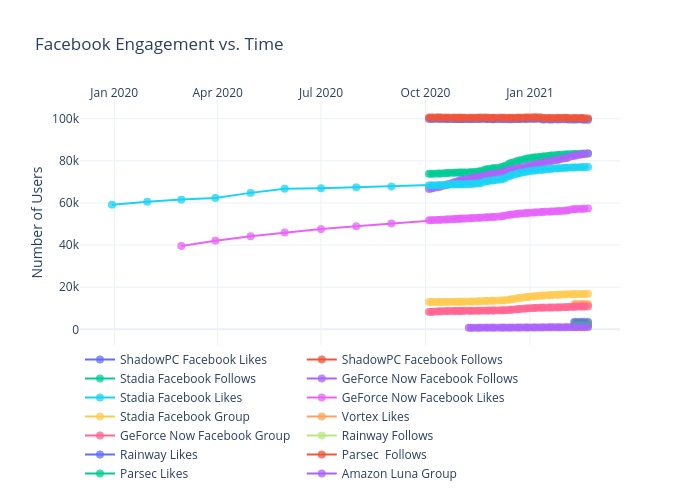
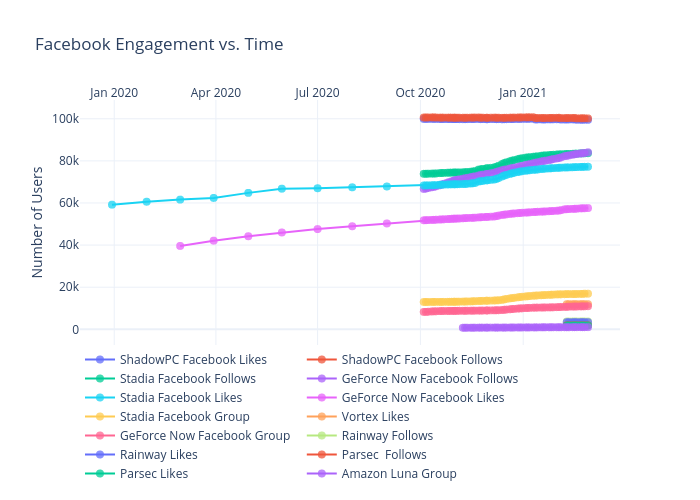
Add files via upload

diff --git a/facebook/figure.js b/facebook/figure.js
@@ -89,7 +89,10 @@ var figure = {
                 "2021-02-14",
                 "2021-02-16",
                 "2021-02-18",
-                "2021-02-21"
+                "2021-02-21",
+                "2021-02-23",
+                "2021-02-25",
+                "2021-02-28"
             ],
             "ysrc": "jdeslip:362:3b7870",
             "y": [
@@ -170,7 +173,10 @@ var figure = {
                 "99699",
                 "99710",
                 "99521",
-                "99532"
+                "99532",
+                "99547",
+                "99557",
+                "99490"
             ],
             "marker": {
                 "size": 8,
@@ -269,7 +275,10 @@ var figure = {
                 "2021-02-14",
                 "2021-02-16",
                 "2021-02-18",
-                "2021-02-21"
+                "2021-02-21",
+                "2021-02-23",
+                "2021-02-25",
+                "2021-02-28"
             ],
             "ysrc": "jdeslip:362:8888b1",
             "y": [
@@ -350,7 +359,10 @@ var figure = {
                 "100374",
                 "100384",
                 "100194",
-                "100205"
+                "100205",
+                "100220",
+                "100230",
+                "100162"
             ],
             "marker": {
                 "size": 8,
@@ -449,7 +461,10 @@ var figure = {
                 "2021-02-14",
                 "2021-02-16",
                 "2021-02-18",
-                "2021-02-21"
+                "2021-02-21",
+                "2021-02-23",
+                "2021-02-25",
+                "2021-02-28"
             ],
             "ysrc": "jdeslip:362:b3ea7e",
             "y": [
@@ -530,7 +545,10 @@ var figure = {
                 "83355",
                 "83417",
                 "83459",
-                "83533"
+                "83533",
+                "83571",
+                "83602",
+                "83648"
             ],
             "marker": {
                 "size": 8,
@@ -629,7 +647,10 @@ var figure = {
                 "2021-02-14",
                 "2021-02-16",
                 "2021-02-18",
-                "2021-02-21"
+                "2021-02-21",
+                "2021-02-23",
+                "2021-02-25",
+                "2021-02-28"
             ],
             "ysrc": "jdeslip:362:3b7b8c",
             "y": [
@@ -710,7 +731,10 @@ var figure = {
                 "82909",
                 "83143",
                 "83272",
-                "83523"
+                "83523",
+                "83606",
+                "83725",
+                "84077"
             ],
             "marker": {
                 "size": 8,
@@ -809,7 +833,10 @@ var figure = {
                 "2021-02-14",
                 "2021-02-16",
                 "2021-02-18",
-                "2021-02-21"
+                "2021-02-21",
+                "2021-02-23",
+                "2021-02-25",
+                "2021-02-28"
             ],
             "ysrc": "jdeslip:362:0d12c0",
             "y": [
@@ -890,7 +917,10 @@ var figure = {
                 "76961",
                 "77020",
                 "77053",
-                "77115"
+                "77115",
+                "77153",
+                "77177",
+                "77214"
             ],
             "marker": {
                 "size": 8,
@@ -989,7 +1019,10 @@ var figure = {
                 "2021-02-14",
                 "2021-02-16",
                 "2021-02-18",
-                "2021-02-21"
+                "2021-02-21",
+                "2021-02-23",
+                "2021-02-25",
+                "2021-02-28"
             ],
             "ysrc": "jdeslip:362:4e0b8a",
             "y": [
@@ -1070,7 +1103,10 @@ var figure = {
                 "57184",
                 "57249",
                 "57284",
-                "57433"
+                "57433",
+                "57482",
+                "57504",
+                "57569"
             ],
             "marker": {
                 "size": 8,
@@ -1169,7 +1205,10 @@ var figure = {
                 "2021-02-14",
                 "2021-02-16",
                 "2021-02-18",
-                "2021-02-21"
+                "2021-02-21",
+                "2021-02-23",
+                "2021-02-25",
+                "2021-02-28"
             ],
             "ysrc": "jdeslip:362:e57889",
             "y": [
@@ -1250,7 +1289,10 @@ var figure = {
                 "16741",
                 "16725",
                 "16792",
-                "16832"
+                "16832",
+                "16818",
+                "16928",
+                "16920"
             ],
             "marker": {
                 "size": 8,
@@ -1349,7 +1391,10 @@ var figure = {
                 "2021-02-14",
                 "2021-02-16",
                 "2021-02-18",
-                "2021-02-21"
+                "2021-02-21",
+                "2021-02-23",
+                "2021-02-25",
+                "2021-02-28"
             ],
             "ysrc": "jdeslip:362:a4f6d3",
             "y": [
@@ -1430,7 +1475,10 @@ var figure = {
                 "11921",
                 "11923",
                 "11922",
-                "11921"
+                "11921",
+                "11927",
+                "11925",
+                "11929"
             ],
             "marker": {
                 "size": 8,
@@ -1529,7 +1577,10 @@ var figure = {
                 "2021-02-14",
                 "2021-02-16",
                 "2021-02-18",
-                "2021-02-21"
+                "2021-02-21",
+                "2021-02-23",
+                "2021-02-25",
+                "2021-02-28"
             ],
             "ysrc": "jdeslip:362:60c2c8",
             "y": [
@@ -1610,7 +1661,10 @@ var figure = {
                 "10806",
                 "10818",
                 "10831",
-                "10872"
+                "10872",
+                "10907",
+                "10925",
+                "10983"
             ],
             "marker": {
                 "size": 8,
@@ -1709,7 +1763,10 @@ var figure = {
                 "2021-02-14",
                 "2021-02-16",
                 "2021-02-18",
-                "2021-02-21"
+                "2021-02-21",
+                "2021-02-23",
+                "2021-02-25",
+                "2021-02-28"
             ],
             "ysrc": "jdeslip:362:55edf8",
             "y": [
@@ -1790,7 +1847,10 @@ var figure = {
                 "3690",
                 "3691",
                 "3693",
-                "3698"
+                "3698",
+                "3699",
+                "3700",
+                "3704"
             ],
             "marker": {
                 "size": 8,
@@ -1889,7 +1949,10 @@ var figure = {
                 "2021-02-14",
                 "2021-02-16",
                 "2021-02-18",
-                "2021-02-21"
+                "2021-02-21",
+                "2021-02-23",
+                "2021-02-25",
+                "2021-02-28"
             ],
             "ysrc": "jdeslip:362:44b138",
             "y": [
@@ -1970,7 +2033,10 @@ var figure = {
                 "3360",
                 "3362",
                 "3365",
-                "3369"
+                "3369",
+                "3370",
+                "3372",
+                "3377"
             ],
             "marker": {
                 "size": 8,
@@ -2069,7 +2135,10 @@ var figure = {
                 "2021-02-14",
                 "2021-02-16",
                 "2021-02-18",
-                "2021-02-21"
+                "2021-02-21",
+                "2021-02-23",
+                "2021-02-25",
+                "2021-02-28"
             ],
             "ysrc": "jdeslip:362:24ff45",
             "y": [
@@ -2150,7 +2219,10 @@ var figure = {
                 "1919",
                 "1919",
                 "1921",
-                "1921"
+                "1921",
+                "1921",
+                "1923",
+                "1924"
             ],
             "marker": {
                 "size": 8,
@@ -2249,7 +2321,10 @@ var figure = {
                 "2021-02-14",
                 "2021-02-16",
                 "2021-02-18",
-                "2021-02-21"
+                "2021-02-21",
+                "2021-02-23",
+                "2021-02-25",
+                "2021-02-28"
             ],
             "ysrc": "jdeslip:362:bf0e5e",
             "y": [
@@ -2330,7 +2405,10 @@ var figure = {
                 "1813",
                 "1813",
                 "1815",
-                "1815"
+                "1815",
+                "1815",
+                "1817",
+                "1818"
             ],
             "marker": {
                 "size": 8,
@@ -2429,7 +2507,10 @@ var figure = {
                 "2021-02-14",
                 "2021-02-16",
                 "2021-02-18",
-                "2021-02-21"
+                "2021-02-21",
+                "2021-02-23",
+                "2021-02-25",
+                "2021-02-28"
             ],
             "ysrc": "jdeslip:362:0c6d36",
             "y": [
@@ -2510,6 +2591,9 @@ var figure = {
                 "1012",
                 "1017",
                 "1019",
+                "1018",
+                "1019",
+                "1019",
                 "1018"
             ],
             "marker": {
@@ -2529,8 +2613,8 @@ var figure = {
             "side": "top",
             "type": "date",
             "range": [
-                "2019-12-04 02:14:34.0824",
-                "2021-03-18 21:45:25.9176"
+                "2019-12-03 15:51:19.616",
+                "2021-03-26 08:08:40.384"
             ],
             "title": {
                 "text": ""
